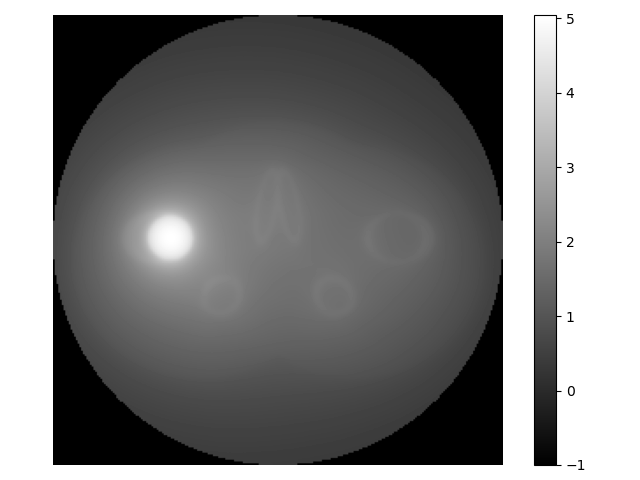
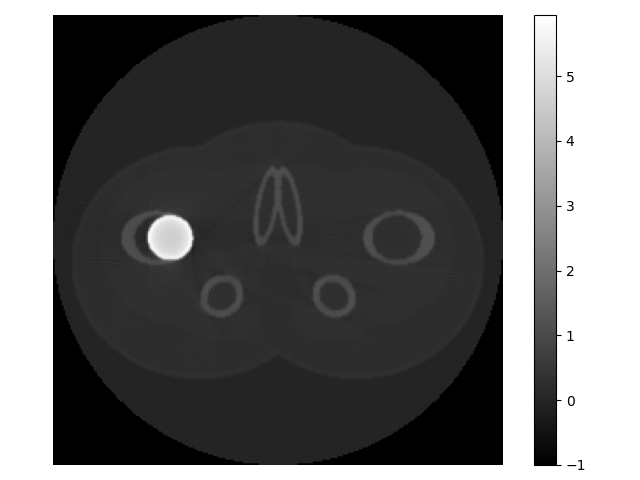
It all works! Plus comments

diff --git a/gg2_python/ct_test_example.py b/gg2_python/ct_test_example.py
@@ -1,5 +1,5 @@
 
-# these are the imports you are likely to need
+# import necessary modules
 import numpy as np
 from material import *
 from source import *
@@ -13,68 +13,142 @@ from create_dicom import *
 material = Material()
 source = Source()
 
-# define each end-to-end test here, including comments
-# these are just some examples to get you started
-# all the output should be saved in a 'results' directory
+# End-to-end tests defined below
+# all the outputs are saved in a 'results' directory
 
 def test_1():
-	# explain what this test is for
+	# Test 1 saves images for phantom and reconstruction to results directory
+	# Can visually compare geometry
 
-	# work out what the initial conditions should be
+	# Setting up scenario for comparison
+	# Single hip replacement phantom generated
 	p = ct_phantom(material.name, 256, 3)
-	s = source.photon('100kVp, 3mm Al')
+	s = source.photon('100kVp, 3mm Al') # Could be tried with different energy sources
 	y = scan_and_reconstruct(s, material, p, 0.01, 256)
 
-	# save some meaningful results
+	# Results saved to 2 separate files 
 	save_draw(y, 'results', 'test_1_image')
 	save_draw(p, 'results', 'test_1_phantom')
-
-	# how to check whether these results are actually correct?
+	# Check geometries appear similar 
+	# Typically some differences in images, partly due to scanning and reconstruction artefacts,
+	#  as well as colour scaling due to phantom using material indexing and reconstruction using linear attenuation coefficients
+	# Also get dark corners where scan doesn't reach due to circular nature of scanning
 	
 
 def test_2():
-	# explain what this test is for
+	# Test 2 plots normalised values for phantom and reconstruction along single line through centre of images
+	# Plotted both separately and overlaid for visual comparison
 
-	# work out what the initial conditions should be
-	p = ct_phantom(material.name, 256, 2)
-	s = source.photon('80kVp, 1mm Al')
+	# Setting up scenario for comparison
+	# Single hip replacement phantom generated
+	p = ct_phantom(material.name, 256, 3)
+	s = source.photon('80kVp, 1mm Al') # Could be tried with different energy sources
 	y = scan_and_reconstruct(s, material, p, 0.01, 256)
 
-	# save some meaningful results
-	save_plot(y[128,:], 'results', 'test_2_plot')
+	# Find maximum value in image for normalisation
+	max_y=np.max(y)
+	max_p=np.max(p)
 
-	# how to check whether these results are actually correct?
+	# Individual plots saved
+	save_plot(y[127,:], 'results', 'test_2_y_plot')
+	save_plot(p[127,:], 'results', 'test_2_p_plot')
+	# Results plotted together for direct comparison
+	plt.plot(y[127,:]/max_y)
+	plt.plot(p[127,:]/max_p)
+	plt.title("Comparing data values on 128th row for phantom and reconstruction")
+	plt.legend(['reconstruction','phantom'])
+	plt.ylabel('Normalised linear attenuation')
+	plt.xlabel('Bin index')
+	full_path = get_full_path('results', 'test_2_combined_plot')
+	# Overlaid plot saved to results directory
+	plt.savefig(full_path)
+	plt.close()
+
+	# Normalisation is purely for ease of comparison, accurate reconstruction can be tested by checking if peaks line up
+
 
 def test_3():
-	# explain what this test is for
+	# Test 3 compares mean value across central area (bins 65 to 193) to known linear attuenuation coefficient for single energy, extracted from mass_attenuation_coeffs spreadsheet
 
-	# work out what the initial conditions should be
+	# Disc phantom generated
+	# Ideal source used to get single energy photons
 	p = ct_phantom(material.name, 256, 1)
 	s = fake_source(source.mev, 0.1, method='ideal')
 	y = scan_and_reconstruct(s, material, p, 0.1, 256)
-
-	# save some meaningful results
-	f = open('results/test_3_output.txt', mode='w')
-	f.write('Mean value is ' + str(np.mean(y[64:192, 64:192])))
-	f.close()
-
-	# how to check whether these results are actually correct?
+	
+	# Retrieve linear attenuation coefficients for default material, which is soft tissue for phantom scenario 1
 	coeffs=material.coeff('Soft Tissue')
 	energies=material.mev
+	# Find index for required energy, which will be 70% of energy given as mvp in fake_source
 	i = np.where(energies==0.07)
+	# Find lin att coeff corresponding to single energy
 	value=coeffs[i]
-	#f = open('results/test_3_output.txt', mode='r')
-	#line=f.read()
+	# Calculate mean
 	mean=np.mean(y[64:192, 64:192])
 
+	# Results saved to text file
+	f = open('results/test_3_output.txt', mode='w')
+	f.write('Mean value of small square in middle is: ' + str(np.mean(y[64:192, 64:192])) + '\n')
+	f.write('The true value obtained from material linear attenuation coefficient is: ' + str(float(value)) + '\n')
+	# Calculate and show percentage difference between values
+	f.write('Giving a percentage difference of: ' + str(np.float(100*abs((mean-value)/value))) + '%' + '\n')
+	f.close()
+
+	# Run test with error catching to identify if test fails
 	try:
-		diff=abs(mean-value)/mean
+		diff=abs((mean-value)/value)
+		# Margin for success set to 10%
 		assert diff<0.1
+		message="Test 3 Successful"
 	except AssertionError:
-		print(diff)
-		print(mean)
-		print(value)
-		print("Test 3 Failed")
+		message="Test 3 Failed"
+
+	print('Mean: ' + str(mean))
+	print('Value: ' + str(float(value)))
+	print('Percentage difference: ' + str(float(diff*100))+"%")
+	print(message)
+	f = open('results/test_3_output.txt', mode='a')
+	# Print whether test is successful to file
+	f.write(message)
+	f.close()
+
+
+def test_4():
+	# Test 4 compares location of peak values, which should be in the centre when using single point phantom
+
+	# Single point phantom generated
+	p = ct_phantom(material.name, 256, 2)
+	s = source.photon('100kVp, 3mm Al') # Could be tried with different energy sources
+	y = scan_and_reconstruct(s, material, p, 0.01, 256)
+
+	# Find max values within images
+	max_y=np.max(y)
+	max_p=np.max(p)
+	# Retrieve locations for maximum points
+	max_y_ind=np.where(y==max_y)
+	max_p_ind=np.where(p==max_p)
+
+	# Write locations of both maxima to text file
+	f = open('results/test_4_output.txt', mode='w')
+	f.write("Max value in phantom is at: "+str(np.asarray(max_p_ind[0]))+', '+str(np.asarray(max_p_ind[1]))+"\n Max value in reconstruction is at: "+str(np.asarray(max_y_ind[0]))+', '+str(np.asarray(max_y_ind[1])) + "\n")
+	f.close()
+
+	# Run test with error catching to identify if test fails
+	try:
+		# Maxima must be at same location for test to pass
+		assert max_y_ind==max_p_ind
+		message="Test 4 Successful"
+	except AssertionError:
+		message="Test 4 Failed"
+	
+	print('Max in reconstruction at: ' +str(np.asarray(max_y_ind[0]))+', '+str(np.asarray(max_y_ind[1])))
+	print('Max in phantom at: ' +str(np.asarray(max_p_ind[0]))+', '+str(np.asarray(max_p_ind[1])))
+	print(message)
+	f = open('results/test_4_output.txt', mode='a')
+	# Print whether test is successful to file
+	f.write(message)
+	f.close()
+
 
 
 
@@ -82,9 +156,11 @@ def test_3():
 
 
 # Run the various tests
-#print('Test 1')
-#test_1()
-#print('Test 2')
-#test_2()
+print('Test 1')
+test_1()
+print('Test 2')
+test_2()
 print('Test 3')
 test_3()
+print("Test 4")
+test_4()

diff --git a/gg2_python/ramp_filter.py b/gg2_python/ramp_filter.py
@@ -16,42 +16,41 @@ def ramp_filter(sinogram, scale, alpha=0.001):
 	angles = sinogram.shape[0]
 	n = sinogram.shape[1]
 
-	#Set up filter to be at least twice as long as input
+	#Set up filter to be at least twice as long as input to avoid issues with circular convolution
 	m = np.ceil(np.log(2*n-1) / np.log(2))
 	m = int(2 ** m)
 
 	#Create ramp filter
+
+	# Calculate maximum frequency, which will be equal to Nyquist frequency in order to avoid aliasing
 	wmax=1/(2*scale)
-	print(wmax)
-	size=math.floor(2*wmax)
-	timestep=2*wmax/m
-	w=np.fft.fftfreq(math.floor(size/timestep))
-	#w=np.linspace(-wmax,wmax, m)
-	ramp=np.abs(w)*timestep
-	#print(ramp.shape)
-	print(m)
-	#ramp1=ramp
-	#ramp1[:int(m/2)]=ramp[int(-m/2):]
-	#ramp1[int(m/2)+1:]=np.flip(ramp[:int(m/2)]) #fft freq
+	# Retrieve set of frequencies that match format for fft (length m and interval scale)
+	w=np.fft.fftfreq(m,d=scale)
+	# Create ramp equal to absolute values of frequencies 
+	ramp=np.abs(w)
+	# Set DC value to slightly above zero
+	ramp[0]=1/6*ramp[1]
+
 
 	# Create raised cosine filter
-	#raised_cos=np.abs(w)*(np.cos(w/2*m))**alpha
-	#raised_cos[0]=raised_cos[1]/6 #1/6th of 1st value
 
-	plt.plot(ramp)
-	#raised_cos1=raised_cos
-	#raised_cos1[:int(m/2)]=raised_cos[int(-m/2):]
-	#raised_cos1[int(m/2):]=np.flip(raised_cos[:int(m/2)])
-	#plt.plot(raised_cos1)
+	# Create raised cosine filter according to eq 14 from handout
+	raised_cos1=np.abs(w)*((np.cos(w/(2*m))))**alpha
+	# Set DC value to slightly above zero
+	raised_cos1[0]=(raised_cos1[1])/6 
 
 
 	# apply filter to all angles
 	print('Ramp filtering')
 	for i in range(angles):
+		# Take fourier transform to allow multiplication in frequency domain rather than convolution in time domain
+		# Convolution is more computationally expensive
+		# fft function adds zero padding to make output length match filter array
 		Fsinogram=np.fft.fft(sinogram[i],m)
-		#print(ramp.shape,Fsinogram.shape)
-		Fproduct=ramp*Fsinogram
-		product=np.real(np.fft.ifft(Fproduct)[:n])
+		#Fproduct=ramp*Fsinogram #Can choose between using pure ramp filter or raised cosine filter
+		Fproduct=raised_cos1*Fsinogram 
+		# Inverse fourier transform to move back into time domain, only keep real part to discard any effects of non-ideality
+		product=np.real(np.fft.ifft(Fproduct)[:n]) # Only take first n values from m length array
 		sinogram[i]=product
 
 

diff --git a/gg2_python/ct_calibrate.py b/gg2_python/ct_calibrate.py
@@ -14,14 +14,15 @@ def ct_calibrate(photons, material, sinogram, scale, correct=True):
 	material structure containing names, linear attenuation coefficients and
 	energies in mev, and scale is the size of each pixel in x, in cm."""
 
-	# Get dimensions and work out detection for just air of twice the side
-	# length (has to be the same as in ct_scan.py)
+	# Get dimensions 
 	n = sinogram.shape[1]
-	
+
+	# Work out attenuated photon energies for single path through air of depth twice the side length of square array
 	airscan=attenuate(photons,material.coeff('Air'), scale*2*n)
+	#Sum along path to get total energy according to eq 3 from handout
 	Io=np.sum(airscan)
 
-	# perform calibration
+	# perform calibration according to eq 4 from handout
 	sinogram=-np.log(sinogram/Io)
 	
 	return sinogram

diff --git a/gg2_python/scan_and_reconstruct.py b/gg2_python/scan_and_reconstruct.py
@@ -15,16 +15,16 @@ def scan_and_reconstruct(photons, material, phantom, scale, angles, mas=10000, a
 		alpha for filtering. The output reconstruction is the same size as phantom."""
 
 
-	# convert source (photons per (mas, cm^2)) to photons
+	# convert source (photons per (mas, cm^2)) to photons (not yet implemented)
 
 	# create sinogram from phantom data, with received detector values
 	sinogram=ct_scan(photons,material,phantom,scale,angles)
 	# convert detector values into calibrated attenuation values
 	linatt=ct_calibrate(photons,material,sinogram,scale)
-	# Ram-Lak
+	# Apply Ram-Lak filter
 	ramlak=ramp_filter(linatt,scale,alpha)
 	# Back-projection
 	phantom=back_project(ramlak)
-	# convert to Hounsfield Units
+	# convert to Hounsfield Units (not yet implemented)
 
 	return phantom

diff --git a/gg2_python/attenuate.py b/gg2_python/attenuate.py
@@ -38,8 +38,7 @@ def attenuate(original_energy, coeff, depth):
     if len(depth) != samples:
         raise ValueError('input depth has different number of samples to input original_energy')
 
-    # Work out residual energy for each depth and at each energy
+    # Work out residual energy for each depth and at each energy according to eq 1 from handout
     residual_energy=original_energy*np.exp(-np.outer(coeff,depth))
         
-
     return residual_energy
